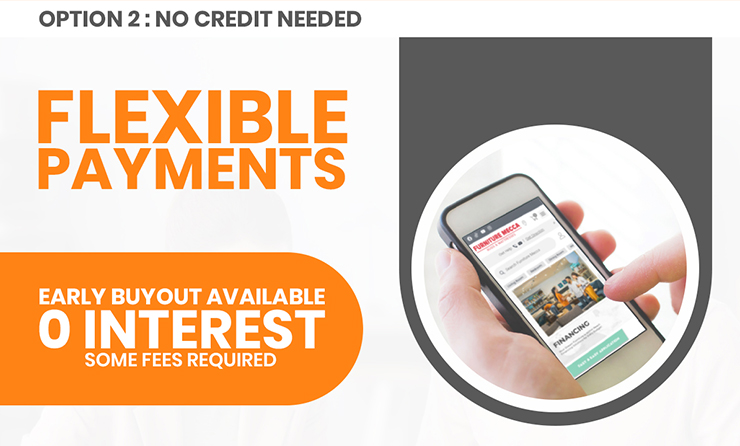
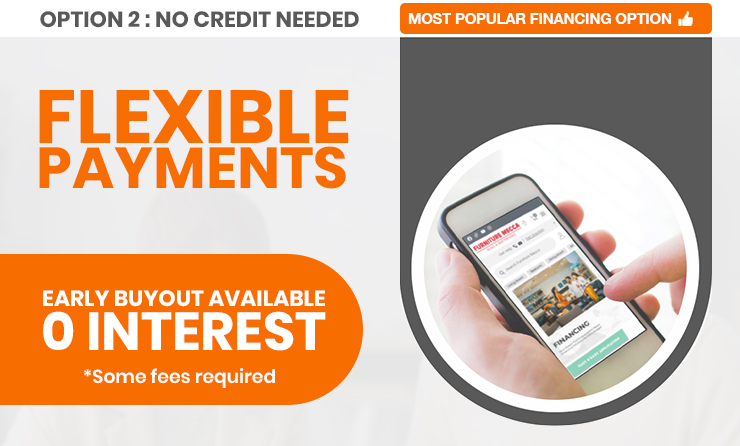
upd-2-23

diff --git a/src/UI/Components/FinanceBannerSlider/FinanceBannerSlider.css b/src/UI/Components/FinanceBannerSlider/FinanceBannerSlider.css
@@ -14,13 +14,13 @@
 
 .carousel-slide{
     min-width: 100%;
-    height: auto;
+    height: 218px;
     cursor: grab;
 }
 
-.carousel-slide img{
+.carousel-slide > img{
     width: 100%;
-    /* height: auto; */
+    height: auto;
     /* object-fit: contain; */
 }
 
@@ -39,6 +39,9 @@
 }
 
 @media only screen and (max-width: 480px){
+    .carousel-slide{
+        height: auto;
+    }
     .carousel-container{
         display: none;
     }

diff --git a/src/UI/Components/FinanceBannerSlider/FinanceBannerSlider.jsx b/src/UI/Components/FinanceBannerSlider/FinanceBannerSlider.jsx
@@ -35,6 +35,7 @@ function FinanceBannerSlider({ images }) {
                             width={1599}
                             height={218}
                             alt={`slide ${index + 1}`}
+                            layout="responsive"
                         />
                     </div>
                 )}

diff --git a/src/UI/Components/GetTheScop/GetTheScop.css b/src/UI/Components/GetTheScop/GetTheScop.css
@@ -8,7 +8,7 @@
     background-image: url('../../../Assets/to-be-change/bb\ 1.png');
     background-repeat: no-repeat;
     background-size: cover;
-    margin-bottom: 35px;
+    /* margin-bottom: 35px; */
     /* margin-bottom: 35px; */
     /* margin-top: 35px; */
 }

diff --git a/src/UI/Components/Products/ElepticalPagination.jsx b/src/UI/Components/Products/ElepticalPagination.jsx
@@ -1,6 +1,6 @@
 import React from 'react';
 import { FaRegArrowAltCircleLeft, FaRegArrowAltCircleRight } from 'react-icons/fa';
-import './products.css';
+import './Products.css';
 
 const ElipticalPagenation = ({
   activePageIndex,
